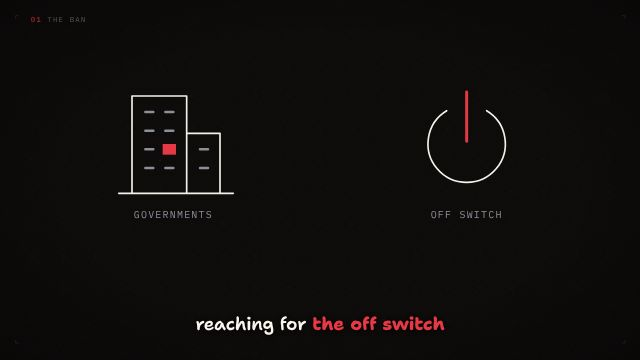
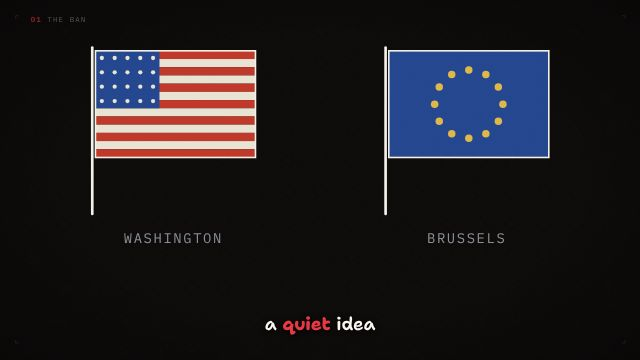
ai-ban 1-min sample v5: the owner's SCENE 01 as written (USA/EU flags, sources 21a-c, LEARNINGS 72)
Claude-Session: https://claude.ai/code/session_01S5iaG25Nnj58d8uMFCEvnk

diff --git a/engine/src/visuals/aiban.tsx b/engine/src/visuals/aiban.tsx
@@ -247,6 +247,14 @@ const FLAGS: Record<string, (W: number, H: number) => React.ReactNode> = {
       <path d={`M${cx - r} ${cy} A${r} ${r} 0 0 0 ${cx + r} ${cy} A${r / 2} ${r / 2} 0 0 0 ${cx} ${cy} A${r / 2} ${r / 2} 0 0 1 ${cx - r} ${cy} Z`} fill="#24478f" transform={`rotate(33 ${cx} ${cy})`} />
       {tri(W * 0.2, H * 0.22, -56)}{tri(W * 0.8, H * 0.78, -56)}{tri(W * 0.8, H * 0.22, 56)}{tri(W * 0.2, H * 0.78, 56)}</g>;
   },
+  usa: (W, H) => {
+    const sh = H / 13, cw = W * 0.4, ch = sh * 7;
+    return <g>{Array.from({ length: 13 }, (_, i) => <rect key={i} x={0} y={i * sh} width={W} height={sh} fill={i % 2 ? '#e9e3d3' : '#c0392b'} />)}
+      <rect x={0} y={0} width={cw} height={ch} fill="#24478f" />
+      {Array.from({ length: 20 }, (_, i) => <circle key={i} cx={cw * ((i % 5) + 0.5) / 5} cy={ch * (Math.floor(i / 5) + 0.5) / 4} r={4} fill="#e9e3d3" />)}</g>;
+  },
+  eu: (W, H) => <g><rect x={0} y={0} width={W} height={H} fill="#24478f" />
+    {Array.from({ length: 12 }, (_, i) => { const a = (i / 12) * Math.PI * 2; return <circle key={i} cx={W / 2 + Math.sin(a) * H * 0.32} cy={H / 2 - Math.cos(a) * H * 0.32} r={7} fill="#e0b84a" />; })}</g>,
 };
 export const Flag: React.FC<Box & { country: string; label?: string; markAt?: Cue }> = ({ w, h, country, label, markAt }) => {
   const frame = useCurrentFrame();

diff --git a/videos/ai-ban/gen_script.py b/videos/ai-ban/gen_script.py
@@ -36,6 +36,7 @@ def pieces(ats, **kw):
 def flow(nodes, **kw): return {"v": "Flow", "surface": "bare", "nodes": nodes, **kw}
 def chat(ask, mode, **kw): return {"v": "ChatBox", "surface": "bare", "ask": ask, "mode": mode, **kw}
 def tag(t, at=0): return {"t": t, "at": at}
+def flag(country, label, **kw): return {"v": "Flag", "surface": "bare", "country": country, "label": label, **kw}
 
 
 PIECES = ["idcard", "chip", "brain", "contract", "lock"]  # the five pieces of the film: your name, the chips, the weights, the licence, the lock
@@ -44,10 +45,10 @@ def bill(**kw): return {"v": "ListDoc", "surface": "bare", "title": "us senate b
 
 VO = {  # id: (vo, say or None)
     "h01": ("Take a long look at the AI on your phone. Enjoy it while you still can.", "Take a long look at the AI on your phone. Enjoy it, while you still can."),
-    "h02": ("A fake face and voice, made with AI anyone can download. And governments are reaching for the off switch.", None),
-    "h03": ("Last year, DeepSeek, a Chinese AI, hit number one on the app charts. Within days, Italy blocked it, and South Korea pulled it from its stores.", None),
-    "h04": ("And an American senator proposed a law under which downloading it could mean up to twenty years in prison.", None),
-    "h05": ("Governments don't move fast for ethics. They move fast when the banking system is on fire.", None),
+    "h02": ("Fake faces and voices, made with AI anyone can download. And in Washington and Brussels, a quiet idea is spreading: the public was never supposed to have this kind of power.", None),
+    "h03": ("If it wins, open access to AI for ordinary people could be outlawed within a few years. No more free prompts. No more AI running privately on your own computer.", None),
+    "h04": ("The golden age of consumer AI could be about to end. And the trap is being set by the very companies that built it.", None),
+    "h05": ("Governments don't move fast for ethical debates. They move fast when the banking system is on fire.", None),
     "h05b": ("Even Sam Altman, who runs ChatGPT, warned America's central bank: some banks let you move money with just your voice.", "Even Sam Altman, who runs ChatGPT, warned America's central bank. Some banks let you move money using nothing but your voice."),
     "h06": ("Here's the twist: some of the loudest voices asking to lock AI down are the companies that built it.", None),
     "h07": ("By the end of this video, you'll see who wins when the trap snaps shut. And it isn't you.", None),
@@ -59,17 +60,19 @@ SHOTS = {
         full(phone("off", gateAt="still"), "while you *still can*", at="Enjoy")]},
     "h02": {"cuts": [
         full(hearing("fake_face.jpg", pill="not a real person"), "a *fake* face and voice"),
-        split(hearing("fake_face.jpg", pill="not a real person"), icon("laptop", label="free download"), "made with *free* AI", at="made"),
-        split(icon("building", label="governments"), icon("power", label="off switch", enter="off"), "reaching for *the off switch*", at="governments")]},
+        split(hearing("fake_face.jpg", pill="not a real person"), icon("laptop", label="free download"), "AI *anyone* can download", at="made"),
+        split(flag("usa", "washington"), flag("eu", "brussels", enter="Brussels"), "a *quiet* idea", at="Washington"),
+        split(icon("people", label="the public"), phone("open", ask="plan my trip to rome", askAt=0, replyAt="power"), "never meant to have *this power*", at="public")]},
     "h03": {"cuts": [
-        full(store(rankAt="number", tag=tag("jan 2025", "number")), "*number one* on the charts"),
-        split(store(rankAt=0), {"v": "Flag", "surface": "bare", "country": "italy", "label": "italy", "markAt": "blocked", "enter": "Italy"}, "*blocked* in Italy", at="Within"),
-        split(store(rankAt=0, pullAt="pulled"), {"v": "Flag", "surface": "bare", "country": "south korea", "label": "south korea", "markAt": "pulled", "enter": "Korea"}, "*pulled* from the store", at="South")]},
+        split(icon("people", label="ordinary people"), phone("off", gateAt="outlawed", enter="open"), "*outlawed* for ordinary people"),
+        split(phone("off", gateAt=0), icon("clock", label="a few years", enter="within"), "within *a few years*", at="within"),
+        split(icon("clock", label="a few years"), chat("help me write my cv", "refuse", refusal="Licence required.", askAt=0, replyAt="prompts"), "no more *free* prompts", at="No"),
+        split(chat("help me write my cv", "refuse", refusal="Licence required.", replyAt=0), icon("laptop", label="your computer", mark="no", markAt="computer", enter="privately"), "not even on *your own* computer", at="privately")]},
     "h04": {"cuts": [
-        full(bill(hot=2, hotAt="downloading"), "a *senator's* bill"),
-        split(bill(hot=2, hotAt=0), icon("bars", label="prison", tag=tag("up to 20 years", "20")), "*prison* for a download?", at="could")]},
+        split(phone("open", ask="plan my trip to rome", askAt=0, replyAt=0), icon("power", label="switched off", enter="consumer"), "the *golden age* could end"),
+        split(row("building", 3, label="ai companies"), icon("lock", label="the trap", enter="trap"), "set by *the builders*", at="trap")]},
     "h05": {"cuts": [
-        split(icon("flag", label="governments"), icon("people", label="ethics debates", mark="no", markAt="ethics", enter="ethics"), "not for *ethics*"),
+        split(icon("flag", label="governments"), icon("people", label="ethics debates", mark="no", markAt="ethical", enter="ethical"), "not for *ethics*"),
         split(icon("building", label="the banks"), icon("fire", enter="fire"), "when *the banks* burn", at="banking")]},
     "h05b": {"cuts": [
         full(hearing("fed_altman.jpg", pill="sam altman · openai"), "the man who *runs ChatGPT*"),
@@ -88,7 +91,7 @@ CLIPS = {  # (file, from, to, plate[, plateAt]); from/to = first word start / la
     "c02": ("fed_altman2.mp4", 1.48, 8.1, "Sam Altman · head of OpenAI · US Federal Reserve, 22 July 2025", 0.3),
 }
 
-ORDER = "h01 c01 h02 h03 h04 h05 h05b c02 h06 h07"
+ORDER = "h01 c01 h02 h03 h04 h05 h05b c02 h07"
 ACTS = {"h01": "01 the ban"}
 
 if __name__ == "__main__":
@@ -103,7 +106,7 @@ if __name__ == "__main__":
         vo, say = VO[i]
         beats.append({"id": i, "vo": vo, **({"say": say} if say else {}), "shot": {**SHOTS[i], "act": act}})
 
-    out = {"id": "ai-ban", "title": "THE COMING AI BAN · 1-min sample (owner's opening)",
+    out = {"id": "ai-ban", "title": "THE COMING AI BAN · 1-min sample v5 (owner's SCENE 01, as written)",
            "voice": {"engine": "kokoro", "name": "af_heart", "speed": 1.0},
            "pace": {"lead": 0.2, "gap": 0.45, "min_beat": 2.4, "to_clip": 0.25, "after_clip": 0.45, "end_pad": 1.5},
            "beats": beats}

diff --git a/videos/ai-ban/SOURCES.md b/videos/ai-ban/SOURCES.md
@@ -84,3 +84,10 @@ TRUE / FALSE / PARTLY / PREDICTION-ONLY (= nothing in the real world yet; cannot
 | 20d | "an American senator proposed a law under which downloading it could mean up to twenty years in prison" | TRUE as "proposed / could" | S.321 "Decoupling America's Artificial Intelligence Capabilities from China Act of 2025", Sen. Josh Hawley, introduced 29 Jan 2025: bans importing AI technology developed in China; import violations take ECRA 50 U.S.C. 4819(b) criminal penalties (up to $1M and/or 20 years). The bill does not define "import"; press and legal commentators read it as covering downloads of DeepSeek. Not passed (in committee) | Bill text (govinfo); Fox/AP-syndicated "Downloading DeepSeek could land you a 20-year prison sentence" | https://www.govinfo.gov/content/pkg/BILLS-119s321is/html/BILLS-119s321is.htm ; https://www.fox13news.com/news/deepseek-ban-senate-bill |
 | 20e | "Governments don't move fast for ethics. They move fast when the banking system is on fire." | OPINION (owner's line) | Framing line from `owner_script.txt` scene 04; followed by the Fed clip (row 10b) | n/a | n/a |
 | 20f | "the loudest voices asking to lock AI down? Some are the very companies that built it" | TRUE as "some" | Altman asked the Senate for a licensing agency (row 1a); LeCun accused lab heads of regulatory capture (row 11b) | rows 1a, 11b | see rows |
+
+## 1-min sample v5 (owner's SCENE 01 as written, 2026-10-11 late night)
+| # | Line | Status | Basis | Checked |
+|---|---|---|---|---|
+| 21a | "In Washington and Brussels, a quiet idea is spreading: the public was never supposed to have this kind of power" | OPINION, framed as an idea (not a claim of a secret consensus) | Real moves it points at: EU AI Act (5a), US S.321 download penalties (20c-20d), licensing proposals (S07 note). The owner's "a quiet consensus just formed" was softened: no consensus exists (5c, 8d, 13e) | 2026-10-11 |
+| 21b | "open access to AI for ordinary people could be outlawed within a few years" | PREDICTION ("could"), owner's "within thirty-six months ... will be outlawed" made conditional | No law does it today (8d, 13e); S.321 shows the direction for one class of models (20c) | 2026-10-11 |
+| 21c | "the trap is being set by the very companies that built it" | OPINION, owner's line | Altman asked Congress for a licensing agency (2023 hearing, rows 1e-1g); the film backs it with evidence | 2026-10-11 |

diff --git a/design-system/LEARNINGS.md b/design-system/LEARNINGS.md
@@ -13,6 +13,13 @@ the original script, the one I pasted in a chat. Not this crappy old video.")
     black markets is dead (never build, send or polish it again). Every session first runs `git fetch` and checks the
     newest commit on every `claude/*` branch, merges the newest HANDOVER line, and works only on the topic it names.
     Rule in `CLAUDE.md` and `PLAYBOOK.md`.
+Owner, next message, verbatim: "sample now! im very upset"
+72. When the owner says "the original script" they mean their pasted text, AS WRITTEN: the v4 sample kept only their
+    first line and replaced the rest with the session's own beats (DeepSeek, Hawley). → Sample v5 = the owner's SCENE 01
+    line by line (Washington and Brussels, "the public was never supposed to have this kind of power", "No more free
+    prompts", "the golden age ... about to end", "the trap was set by the exact companies that built it") then their
+    SCENE 04 opening, with only the claims made true ("could", "an idea is spreading"). Build every sample and the film
+    in the owner's scene order and wording; new facts only where a line is false.
 
 ## 2026-10-11 (night) · owner on the ai-ban 2-min sample (Senate-hearing cold open) → a new 1-min sample
 Owner, verbatim: "i've watched : All-in_ai_ban_sample_2min.mp4. it's really terrible. BECAUSE WHO THE F CARES ABOUT
